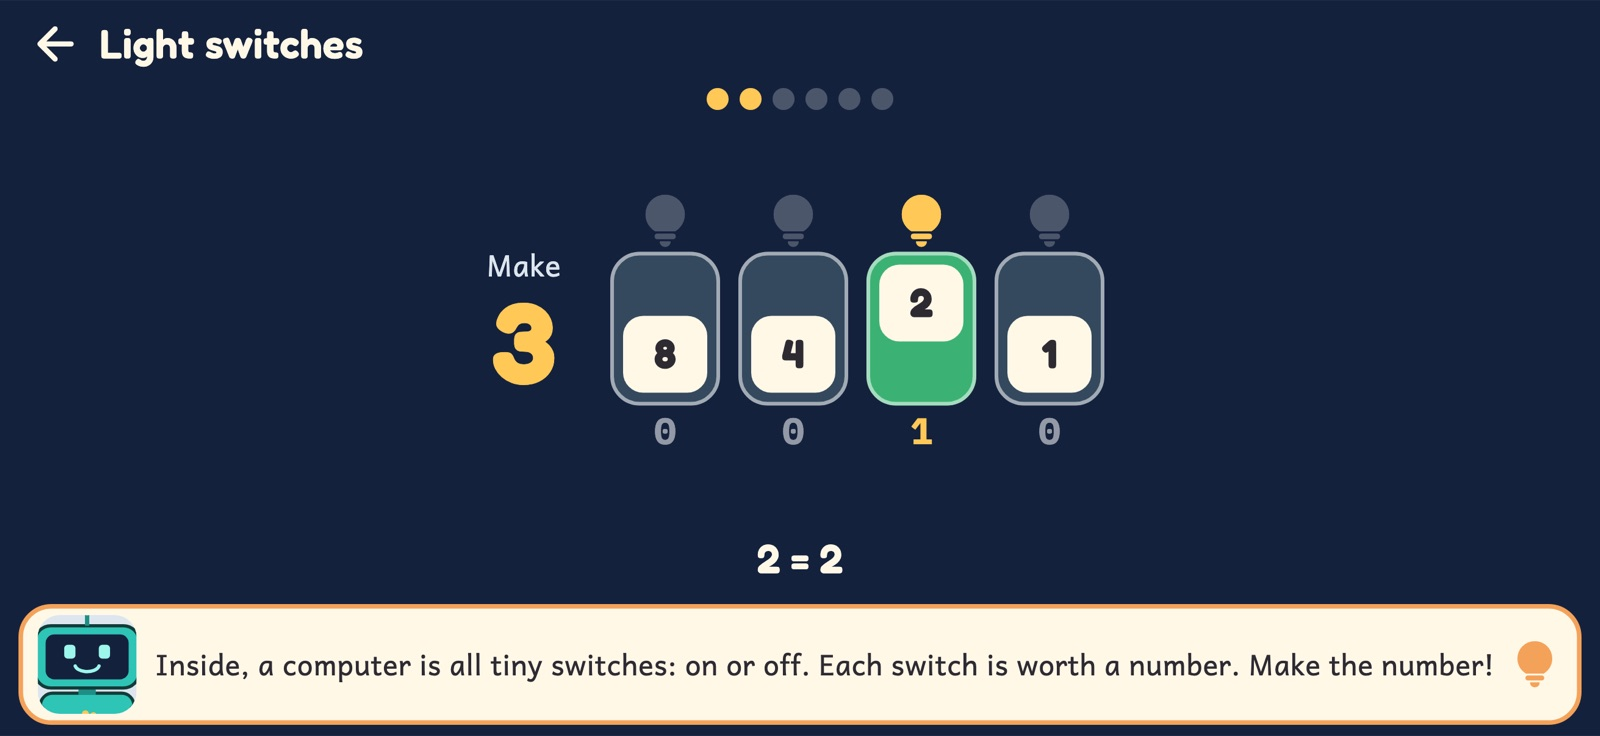
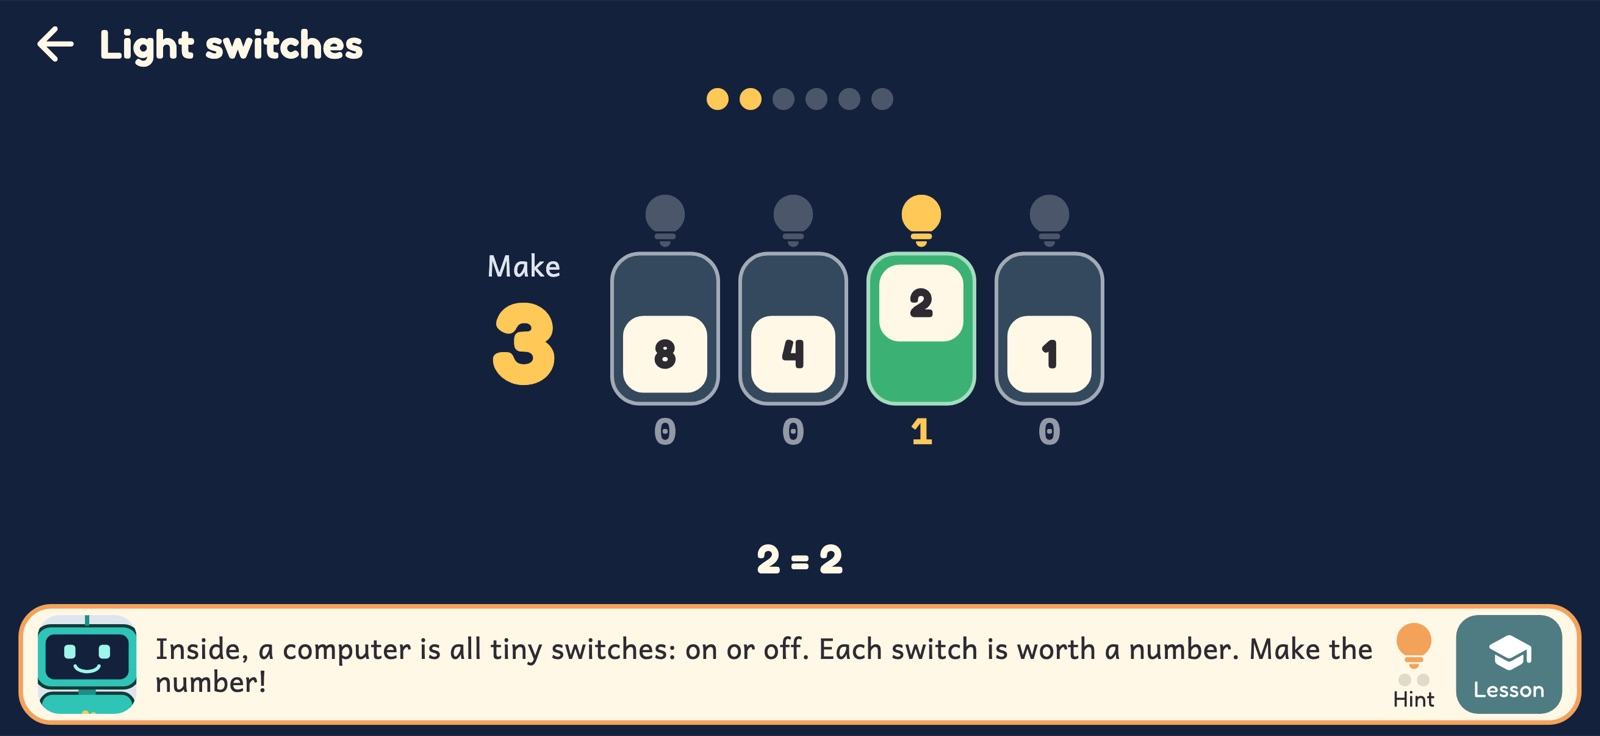
Add the Python Trail, lessons, hints and the Help Book

Changed region(s): [[0.0938, 0.8125, 1.0, 0.9688]]

diff --git a/index.html b/index.html
@@ -201,6 +201,39 @@ c.say(<span class="s">"Meow!"</span>)
     </ol>
   </section>
 
+  <section class="chapters" id="trail">
+    <h2>Then the Python Trail</h2>
+    <p>After Movie Night a second map opens: six more stops, all typed Python, each a bigger piece of the real language.</p>
+    <ol start="10" style="counter-reset: ch 9">
+      <li><strong>The Sunday Market</strong>Lists: pick one out, add one, loop over all, sort and slice.</li>
+      <li><strong>The Noodle Shop</strong>Strings: upper, f-strings, slices and split.</li>
+      <li><strong>The Record Shop</strong>Dictionaries: look up, add, change and count.</li>
+      <li><strong>The Playfield</strong>Functions that return an answer, while loops and random.</li>
+      <li><strong>The Robot Workshop</strong>Classes: write a recipe, make objects, build one class on another.</li>
+      <li><strong>The Game Jam</strong>All of it together, in movies and tap games with a score.</li>
+    </ol>
+    <figure>
+      <img class="shot" src="img/trail.jpg" alt="The Python Trail map: six stops joined by a path, with buttons for My Python and the Notebook" loading="lazy">
+      <img class="shot small" src="img/class.jpg" alt="A class in Python: FlyingRobot built on Robot, and the words it printed beside it" loading="lazy">
+      <img class="shot small" src="img/words.jpg" alt="My Python: a list of every piece of Python learned so far, stop by stop" loading="lazy">
+    </figure>
+    <p>Along the way, <strong>My Python</strong> keeps every piece she has learned, and the <strong>Notebook</strong> runs any Python she writes.</p>
+  </section>
+
+  <section class="chapters" id="help">
+    <h2>Never stuck for long</h2>
+    <p>Every new idea starts with a short <strong>lesson</strong>: Widget at a board, with code that really runs and a
+      question or two. Any lesson can be watched again, from the stop or from the level she is on.</p>
+    <figure>
+      <img class="shot" src="img/lesson.jpg" alt="A lesson on if and else: blocks on a board, and Widget running them along a path with a puddle" loading="lazy">
+      <img class="shot small" src="img/hint.jpg" alt="The third hint: a card that shows one way to build the program, to read and copy" loading="lazy">
+      <img class="shot small" src="img/help.jpg" alt="The Help Book: a page on if, elif and else, with code to try" loading="lazy">
+    </figure>
+    <p><strong>Hints come in steps.</strong> The first is a nudge. The second shows where to look. The third shows
+      one whole way to do it, for her to read and build herself. And the <strong>Help Book</strong> has a page, with
+      code to run and change, for every piece of Python the game knows: 44 of them, from print to classes.</p>
+  </section>
+
   <section class="grownups" id="grownups">
     <h2>For grown-ups</h2>
     <p>Capitol Hill Coding was made by a parent in Seattle for their own young coder, as a sister
@@ -217,8 +250,8 @@ c.say(<span class="s">"Meow!"</span>)
       </div>
       <div class="card">
         <h3>🐍 What "real Python" means</h3>
-        <p>The app runs a kid-sized part of Python: variables, numbers, words, lists, if, loops
-          and functions. It is real syntax, but not the whole language.</p>
+        <p>The app runs a kid-sized part of Python: variables, numbers, words, lists,
+          dictionaries, if, loops, functions and classes. It is real syntax, but not the whole language.</p>
       </div>
       <div class="card">
         <h3>⌨ Typing is optional at first</h3>

diff --git a/style.css b/style.css
@@ -118,6 +118,8 @@ a { color: var(--link); }
   display: grid; place-items: center; font: 600 16px "Fredoka", ui-rounded, sans-serif;
   background: var(--night); color: var(--porch); box-shadow: 0 0 0 3px rgba(255,200,87,.25);
 }
+.chapters figure { margin: 22px 0 18px; display: grid; grid-template-columns: repeat(auto-fit, minmax(260px, 1fr)); gap: 14px; }
+.chapters figure .shot, .chapters figure .shot.small { width: 100%; margin: 0; justify-self: stretch; border: 1px solid var(--line); }
 .chapters strong { display: block; font-family: "Fredoka", ui-rounded, sans-serif; font-weight: 600; font-size: 17px; }
 .chapters .free { font-size: 12px; font-weight: 700; letter-spacing: .04em; text-transform: uppercase; color: var(--mud); margin-left: 4px; }
 @media (prefers-color-scheme: dark) { .chapters .free { color: var(--porch); } }
